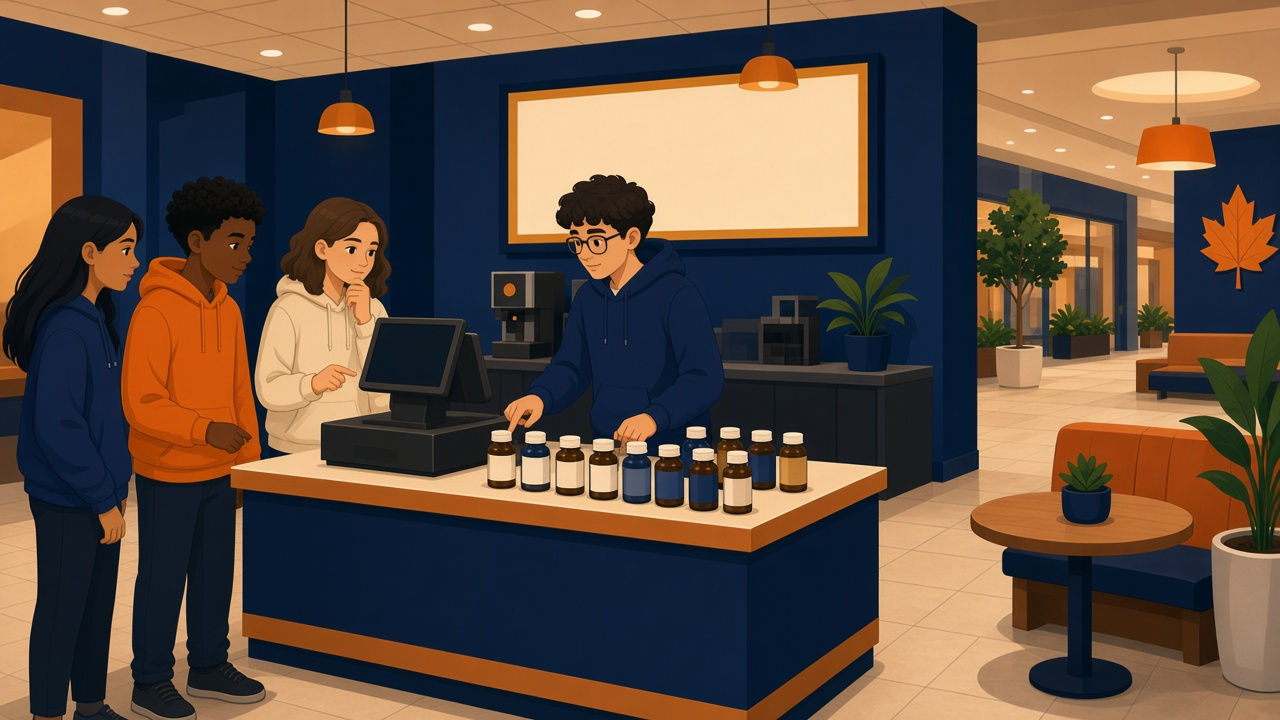
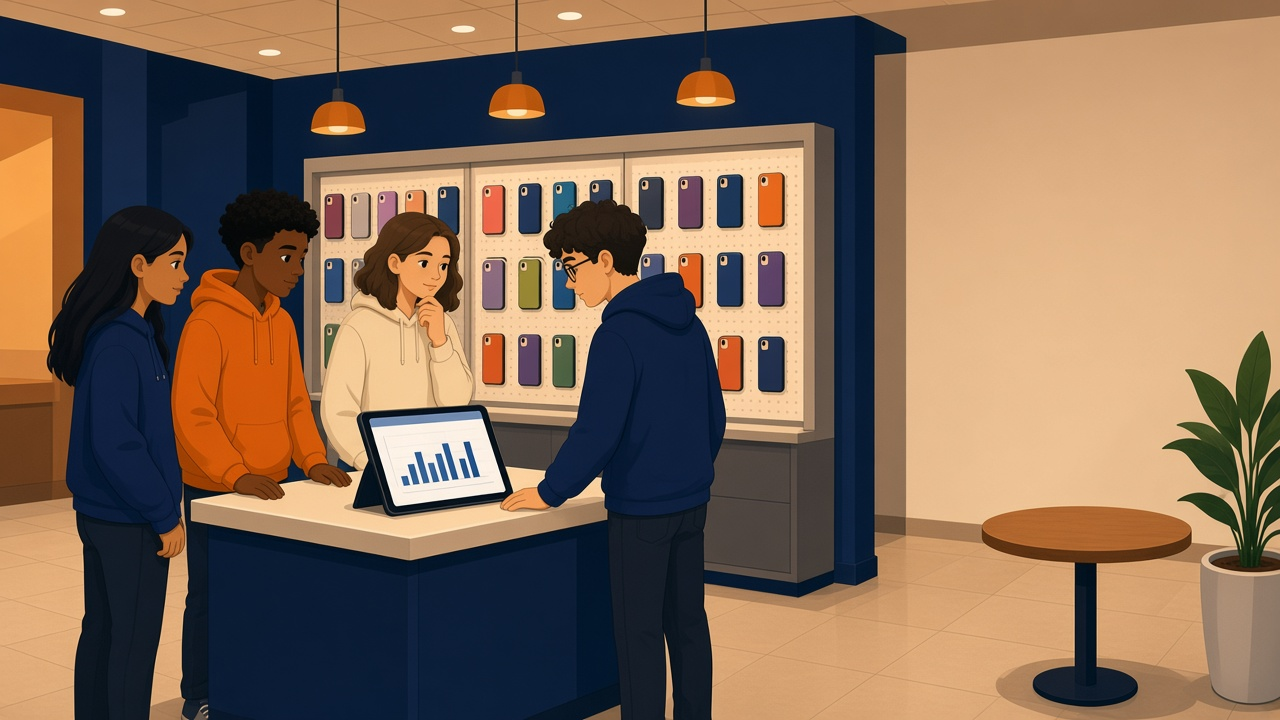
Room 2: phone case kiosk in tech aisle, new items and art.

diff --git a/room2/challenge-2A.html b/room2/challenge-2A.html
@@ -13,7 +13,7 @@
   
 <div class="room-banner" style="background:#E09F3E">
   <div class="badge">Room 2</div>
-  <h2> Checkout</h2>
+  <h2> CaseKiosk</h2>
   <p class="muted" style="color:rgba(255,255,255,0.85);margin:0.35rem 0 0">6.RP.A.2 Unit Rates</p>
   <div class="progress" data-progress data-room="2"
        data-challenge-ids='["2A", "2B", "2C", "2D"]' data-current="2A"><span class="dot"></span><span class="dot"></span><span class="dot"></span><span class="dot"></span></div>
@@ -21,11 +21,11 @@
 
   <p class="meta">6.RP.A.2 · Unit rate</p>
   <h2>Challenge 1 of 4</h2>
-  <p>A sample kiosk sells 6 bottles in 2 hours. The row for 2 hours is already filled in.
+  <p>The phone-case kiosk sold 8 cases in 2 hours. The chart row for 2 hours is already filled in.
 
-How many bottles does it sell in 1 hour?</p>
+How many cases does it sell in 1 hour?</p>
   <div class="choices" data-choices data-room="2" data-challenge-id="2A">
-    <button type="button" class="choice" data-letter="A">A) 2 bottles</button><button type="button" class="choice" data-letter="B">B) 12 bottles</button><button type="button" class="choice" data-letter="C">C) 3 bottles</button><button type="button" class="choice" data-letter="D">D) 6 bottles</button>
+    <button type="button" class="choice" data-letter="A">A) 2 cases</button><button type="button" class="choice" data-letter="B">B) 16 cases</button><button type="button" class="choice" data-letter="C">C) 4 cases</button><button type="button" class="choice" data-letter="D">D) 8 cases</button>
   </div>
   <div class="nav"><a class="btn" href="index.html">Back</a><a class="btn accent" href="challenge-2B.html">Challenge 2</a></div>
 </aside>

diff --git a/room2/challenge-2D.html b/room2/challenge-2D.html
@@ -13,7 +13,7 @@
   
 <div class="room-banner" style="background:#E09F3E">
   <div class="badge">Room 2</div>
-  <h2> Checkout</h2>
+  <h2> CaseKiosk</h2>
   <p class="muted" style="color:rgba(255,255,255,0.85);margin:0.35rem 0 0">6.RP.A.2 Unit Rates</p>
   <div class="progress" data-progress data-room="2"
        data-challenge-ids='["2A", "2B", "2C", "2D"]' data-current="2D"><span class="dot"></span><span class="dot"></span><span class="dot"></span><span class="dot"></span></div>
@@ -21,11 +21,11 @@
 
   <p class="meta">6.RP.A.2 · Unit rate</p>
   <h2>Challenge 4 of 4</h2>
-  <p>A second kiosk sells 8 bottles in 2 hours.
+  <p>A pop-grip kiosk nearby sold 15 cases in 3 hours.
 
 Which choice shows its unit rate?</p>
   <div class="choices" data-choices data-room="2" data-challenge-id="2D">
-    <button type="button" class="choice" data-letter="A">A) 2 bottles per hour</button><button type="button" class="choice" data-letter="B">B) 4 bottles per hour</button><button type="button" class="choice" data-letter="C">C) 10 bottles per hour</button><button type="button" class="choice" data-letter="D">D) 8 bottles in 2 hours</button>
+    <button type="button" class="choice" data-letter="A">A) 3 cases per hour</button><button type="button" class="choice" data-letter="B">B) 5 cases per hour</button><button type="button" class="choice" data-letter="C">C) 18 cases per hour</button><button type="button" class="choice" data-letter="D">D) 15 cases in 3 hours</button>
   </div>
   <div class="nav"><a class="btn" href="challenge-2C.html">Back</a><a class="btn accent" href="unlock.html">Room unlock</a></div>
 </aside>

diff --git a/room2/challenge-2B.html b/room2/challenge-2B.html
@@ -13,7 +13,7 @@
   
 <div class="room-banner" style="background:#E09F3E">
   <div class="badge">Room 2</div>
-  <h2> Checkout</h2>
+  <h2> CaseKiosk</h2>
   <p class="muted" style="color:rgba(255,255,255,0.85);margin:0.35rem 0 0">6.RP.A.2 Unit Rates</p>
   <div class="progress" data-progress data-room="2"
        data-challenge-ids='["2A", "2B", "2C", "2D"]' data-current="2B"><span class="dot"></span><span class="dot"></span><span class="dot"></span><span class="dot"></span></div>
@@ -21,11 +21,11 @@
 
   <p class="meta">6.RP.A.2 · Unit rate</p>
   <h2>Challenge 2 of 4</h2>
-  <p>The kiosk sells 3 bottles per hour.
+  <p>The kiosk sells 4 phone cases per hour.
 
-How many bottles does it sell in 5 hours?</p>
+How many cases does it sell in 6 hours?</p>
   <div class="choices" data-choices data-room="2" data-challenge-id="2B">
-    <button type="button" class="choice" data-letter="A">A) 15 bottles</button><button type="button" class="choice" data-letter="B">B) 8 bottles</button><button type="button" class="choice" data-letter="C">C) 30 bottles</button><button type="button" class="choice" data-letter="D">D) 11 bottles</button>
+    <button type="button" class="choice" data-letter="A">A) 24 cases</button><button type="button" class="choice" data-letter="B">B) 10 cases</button><button type="button" class="choice" data-letter="C">C) 40 cases</button><button type="button" class="choice" data-letter="D">D) 18 cases</button>
   </div>
   <div class="nav"><a class="btn" href="challenge-2A.html">Back</a><a class="btn accent" href="challenge-2C.html">Challenge 3</a></div>
 </aside>

diff --git a/room2/challenge-2C.html b/room2/challenge-2C.html
@@ -13,7 +13,7 @@
   
 <div class="room-banner" style="background:#E09F3E">
   <div class="badge">Room 2</div>
-  <h2> Checkout</h2>
+  <h2> CaseKiosk</h2>
   <p class="muted" style="color:rgba(255,255,255,0.85);margin:0.35rem 0 0">6.RP.A.2 Unit Rates</p>
   <div class="progress" data-progress data-room="2"
        data-challenge-ids='["2A", "2B", "2C", "2D"]' data-current="2C"><span class="dot"></span><span class="dot"></span><span class="dot"></span><span class="dot"></span></div>
@@ -21,11 +21,11 @@
 
   <p class="meta">6.RP.A.2 · Unit rate</p>
   <h2>Challenge 3 of 4</h2>
-  <p>The kiosk sells 3 bottles per hour.
+  <p>The kiosk sells 4 phone cases per hour.
 
-How many hours does it take to sell 15 bottles?</p>
+How many hours does it take to sell 20 cases?</p>
   <div class="choices" data-choices data-room="2" data-challenge-id="2C">
-    <button type="button" class="choice" data-letter="A">A) 30 hours</button><button type="button" class="choice" data-letter="B">B) 5 hours</button><button type="button" class="choice" data-letter="C">C) 3 hours</button><button type="button" class="choice" data-letter="D">D) 7 hours</button>
+    <button type="button" class="choice" data-letter="A">A) 40 hours</button><button type="button" class="choice" data-letter="B">B) 5 hours</button><button type="button" class="choice" data-letter="C">C) 4 hours</button><button type="button" class="choice" data-letter="D">D) 7 hours</button>
   </div>
   <div class="nav"><a class="btn" href="challenge-2B.html">Back</a><a class="btn accent" href="challenge-2D.html">Challenge 4</a></div>
 </aside>

diff --git a/room2/index.html b/room2/index.html
@@ -3,7 +3,7 @@
 <head>
   <meta charset="utf-8">
   <meta name="viewport" content="width=device-width, initial-scale=1">
-  <title>Room 2: Checkout</title>
+  <title>Room 2: CaseKiosk</title>
   <link rel="stylesheet" href="../assets/styles.css">
 </head>
 <body class="scene-overlay">
@@ -14,17 +14,17 @@
   
 <div class="room-banner" style="background:#E09F3E">
   <div class="badge">Room 2</div>
-  <h2> Checkout</h2>
+  <h2> CaseKiosk</h2>
   <p class="muted" style="color:rgba(255,255,255,0.85);margin:0.35rem 0 0">6.RP.A.2 Unit Rates</p>
   <div class="progress" data-progress data-room="2"
        data-challenge-ids='["2A", "2B", "2C", "2D"]' data-current=""><span class="dot"></span><span class="dot"></span><span class="dot"></span><span class="dot"></span></div>
 </div>
 
-  <p>CHECKOUT
+  <p>CASE KIOSK
 
-The sample kiosk sells bottles on a schedule, but one row is missing. Find the unit rate and use it to finish the register screen.
+You reached the mall tech aisle, but this zone is locked. Solve each phone-case kiosk problem to earn the door code. The sales chart tracks how many cases sell each hour.
 
-Four right answers drop this zone&#x27;s digits.</p>
+Four right answers reveal the code.</p>
   <p><strong>4 challenges</strong> — answer them all, then unlock.</p>
   <div class="nav"><a class="btn" href="../room1/unlock.html">Back</a><a class="btn accent" href="challenge-2A.html">Start Challenge 1</a></div>
 

diff --git a/room5/challenge-5D.html b/room5/challenge-5D.html
@@ -21,11 +21,11 @@
 
   <p class="meta">6.RP.A.3 · Override key</p>
   <h2>Challenge 4 of 4</h2>
-  <p>The override key is the FoodCourt, Checkout, SaleSign, and BargainBin codes in that order.
+  <p>The override key is the FoodCourt, CaseKiosk, SaleSign, and BargainBin codes in that order.
 
 Which choice lists your four zone codes correctly?</p>
   <div class="choices" data-choices data-room="5" data-challenge-id="5D">
-    <button type="button" class="choice" data-letter="A">A) 5274-9613-5823-7426</button><button type="button" class="choice" data-letter="B">B) 9613-5274-5823-7426</button><button type="button" class="choice" data-letter="C">C) 5273-9613-5823-7426</button><button type="button" class="choice" data-letter="D">D) 7426-5823-9613-5274</button>
+    <button type="button" class="choice" data-letter="A">A) 5274-9614-5823-7426</button><button type="button" class="choice" data-letter="B">B) 9614-5274-5823-7426</button><button type="button" class="choice" data-letter="C">C) 5273-9614-5823-7426</button><button type="button" class="choice" data-letter="D">D) 7426-5823-9614-5274</button>
   </div>
   <div class="nav"><a class="btn" href="challenge-5C.html">Back</a><a class="btn accent" href="unlock.html">Room unlock</a></div>
 </aside>

diff --git a/room2/unlock.html b/room2/unlock.html
@@ -14,7 +14,7 @@
   
 <div class="room-banner" style="background:#E09F3E">
   <div class="badge">Room 2</div>
-  <h2> Checkout</h2>
+  <h2> CaseKiosk</h2>
   <p class="muted" style="color:rgba(255,255,255,0.85);margin:0.35rem 0 0">6.RP.A.2 Unit Rates</p>
   <div class="progress" data-progress data-room="2"
        data-challenge-ids='["2A", "2B", "2C", "2D"]' data-current=""><span class="dot"></span><span class="dot"></span><span class="dot"></span><span class="dot"></span></div>
@@ -24,7 +24,7 @@
        data-room="2"
[1 lines of base64/hex data omitted]
        data-challenge-ids='["2A", "2B", "2C", "2D"]'
-       data-room-code="9613"
+       data-room-code="9614"
        data-next-href="../room3/index.html">
     <div class="lock-icon" aria-hidden="true">🔒</div>
     <h2>Room 2 unlock</h2>

diff --git a/index.html b/index.html
@@ -19,7 +19,7 @@
   <p class="muted">You have 45-60 minutes to escape. Read every answer choice before deciding!</p>
   <h2>How to play</h2>
   <ol class="how-to"><li>Read each challenge carefully.</li><li>Discuss with your team and tap the best answer (A–D).</li><li>Complete every challenge in the room — your choices are saved automatically.</li><li>Open the room unlock page. If your answers are right, the room unlocks!</li><li>If unlock fails, go back, revise answers, and try again.</li></ol>
-  <p>FoodCourt · Checkout · SaleSign · BargainBin · MallExit</p>
+  <p>FoodCourt · CaseKiosk · SaleSign · BargainBin · MallExit</p>
   <div class="nav"><span></span><a class="btn accent" href="room1/index.html">Enter Room 1</a></div>
 
 </aside>

diff --git a/room5/index.html b/room5/index.html
@@ -22,7 +22,7 @@
 
   <p>MALL EXIT
 
-One snack order ties the other zones together. Scale the ratio, pack the bags, find the restock, then enter the FoodCourt, Checkout, SaleSign, and BargainBin codes in order.
+One snack order ties the other zones together. Scale the ratio, pack the bags, find the restock, then enter the FoodCourt, CaseKiosk, SaleSign, and BargainBin codes in order.
 
 Four right answers drop this zone&#x27;s digits.</p>
   <p><strong>4 challenges</strong> — answer them all, then unlock.</p>

diff --git a/final.html b/final.html
@@ -19,7 +19,7 @@
   </div>
   <div data-final-win hidden>
     <h2>Master unlock</h2>
-    <p class="room-code" style="opacity:1">5274-9613-5823-7426-8215</p>
+    <p class="room-code" style="opacity:1">5274-9614-5823-7426-8215</p>
     <p class="muted">Great teamwork — your class cracked the lockdown.</p>
   </div>
 
